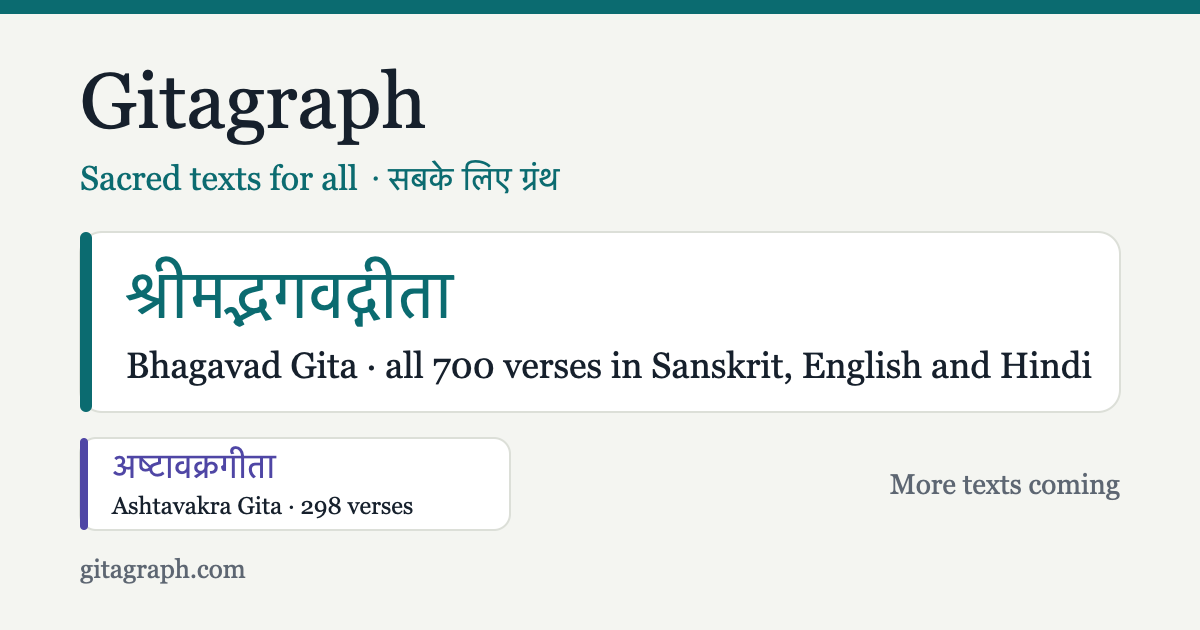
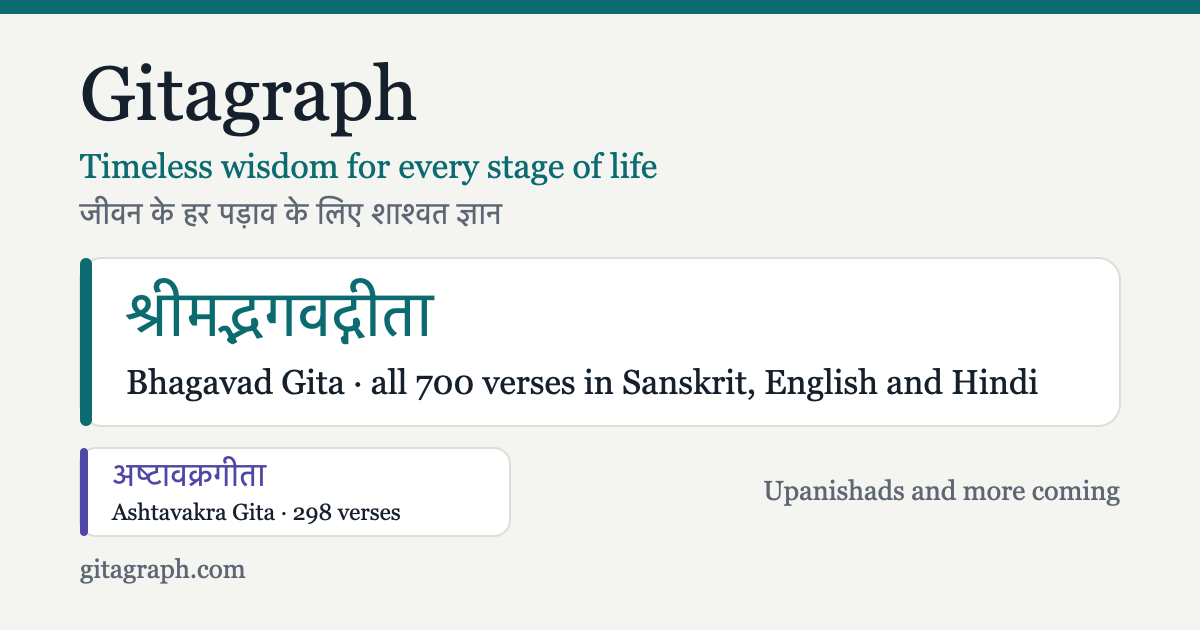
Library home: Timeless wisdom for every stage of life; Read / Explore / Reflect doors and a verse of the day
New tagline and second line (EN/HI) in the title, og tags and share card; three equal doors under the
tagline (Read continues where the reader left off); the Gita's verse of the day below them; the
life-questions chip row gives way to the Reflect door.

Changed region(s): [[0.0617, 0.0905, 0.925, 0.8746], [0.6475, 0.754, 0.9558, 0.8143]]

diff --git a/index.html b/index.html
@@ -3,17 +3,17 @@
 <head>
 <meta charset="utf-8">
 <meta name="viewport" content="width=device-width,initial-scale=1,viewport-fit=cover">
-<title>Gitagraph · Sacred texts for all · Bhagavad Gita, Ashtavakra Gita and more</title>
+<title>Gitagraph · Timeless wisdom for every stage of life</title>
 <meta name="description" content="India&#x27;s sacred texts, verse by verse, in Sanskrit with simple English and Hindi. Easy for someone opening them for the first time, and a reference for someone who has read them many times.">
 <link rel="canonical" href="https://gitagraph.com/">
 <meta name="theme-color" content="#f4f5f1" media="(prefers-color-scheme: light)">
 <meta name="theme-color" content="#0e1219" media="(prefers-color-scheme: dark)">
-<meta property="og:type" content="website"><meta property="og:title" content="Gitagraph · Sacred texts for all">
+<meta property="og:type" content="website"><meta property="og:title" content="Gitagraph · Timeless wisdom for every stage of life">
 <meta property="og:description" content="India&#x27;s sacred texts, verse by verse, in Sanskrit with simple English and Hindi. Easy for someone opening them for the first time, and a reference for someone who has read them many times."><meta property="og:url" content="https://gitagraph.com/">
-<meta property="og:site_name" content="Gitagraph · Sacred texts for all">
-<meta property="og:image" content="https://gitagraph.com/shared/og-library.png?v=20261111232852">
+<meta property="og:site_name" content="Gitagraph · Timeless wisdom for every stage of life">
+<meta property="og:image" content="https://gitagraph.com/shared/og-library.png?v=20261112000921">
 <meta property="og:image:width" content="1200"><meta property="og:image:height" content="630">
-<meta property="og:image:alt" content="Gitagraph · Sacred texts for all (गीताग्राफ़ · सबके लिए ग्रंथ): the Bhagavad Gita, with the Ashtavakra Gita and more, verse by verse in Sanskrit, English and Hindi">
+<meta property="og:image:alt" content="Gitagraph · Timeless wisdom for every stage of life (गीताग्राफ़ · जीवन के हर पड़ाव के लिए शाश्वत ज्ञान): the Bhagavad Gita, the Ashtavakra Gita and more, verse by verse in Sanskrit, English and Hindi">
 <meta property="og:locale" content="en_IN"><meta property="og:locale:alternate" content="hi_IN">
 <meta name="twitter:card" content="summary_large_image">
 <link rel="icon" href="gita/icon.svg" type="image/svg+xml">
@@ -54,6 +54,23 @@ a.text:hover{border-color:var(--c)}
 .text .go{color:var(--c);font-weight:600}
 .text.soon{opacity:.62}
 .grid .featured{grid-column:1 / -1}
+.hero .tag2{margin:0;color:var(--muted);font-size:17px}
+.doors{list-style:none;margin:22px 0 0;padding:0;display:grid;grid-template-columns:minmax(0,1fr);gap:12px}
+@media (min-width:700px){ .doors{grid-template-columns:repeat(3,minmax(0,1fr))} }
+.door{display:flex;flex-direction:column;gap:6px;height:100%;padding:18px 20px;border-radius:16px;background:var(--surface);border:1px solid var(--line);text-decoration:none;color:inherit}
+.door:hover{border-color:var(--accent)}
+.door svg{width:28px;height:28px;color:var(--accent)}
+.door .dt{font-family:var(--f-read);font-weight:600;font-size:21px}
+:root[lang=hi] .door .dt{font-family:var(--f-hi);font-weight:400;font-size:22px}
+.door .ds{color:var(--muted);line-height:1.5}
+.door .go{margin-top:auto;padding-top:6px;color:var(--accent);font-weight:600;font-size:15px}
+.votd{margin:22px 0 0;padding:20px 22px;border-radius:16px;background:var(--surface);border:1px solid var(--line)}
+.votd .ey{margin:0;font-size:12.5px;letter-spacing:.08em;text-transform:uppercase;color:var(--muted);font-weight:600}
+:root[lang=hi] .votd .ey{letter-spacing:0;text-transform:none;font-size:14px}
+.votd .sa{font-family:var(--f-skt);font-size:21px;line-height:1.75;margin:10px 0 0}
+.votd .tx{font-family:var(--f-read);font-size:17.5px;line-height:1.65;margin:10px 0 0;max-width:62ch}
+:root[lang=hi] .votd .tx{font-family:var(--f-hi);line-height:1.85}
+.votd a{display:inline-block;margin-top:12px;color:var(--accent);font-weight:600;text-decoration:none}
 .text.feat{padding:26px 26px 22px;border-top-width:7px;background:color-mix(in srgb, var(--c) 6%, var(--surface))}
 .text.feat .nat{font-size:clamp(34px,6vw,46px)}
 .text.feat .nm{font-size:clamp(22px,3.5vw,28px)}
@@ -86,14 +103,17 @@ a.text:hover{border-color:var(--c)}
 <header class="top"><span class="brand" id="brand">Gitagraph</span>
   <button class="langpill" id="lang" type="button" aria-label="हिन्दी में देखें">हि</button></header>
 <main class="wrap">
-  <section class="hero"><h1 id="h1">Gitagraph<span class="proto" id="beta">Beta</span></h1><p class="tag" id="tag">Sacred texts for all</p><p id="lede">India&#x27;s sacred texts, verse by verse, in Sanskrit with simple English and Hindi. Easy for someone opening them for the first time, and a reference for someone who has read them many times.</p></section>
+  <section class="hero"><h1 id="h1">Gitagraph<span class="proto" id="beta">Beta</span></h1>
+    <p class="tag"><span class="l-en">Timeless wisdom for every stage of life.</span><span class="l-hi">जीवन के हर पड़ाव के लिए शाश्वत ज्ञान।</span></p>
+    <p class="tag2"><span class="l-en">For curious minds — read, explore, reflect.</span><span class="l-hi">जिज्ञासु मन के लिए — पढ़ें, खोजें, मनन करें।</span></p></section>
+  <ul class="doors"><li><a class="door" id="door-read" href="gita/"><svg viewBox="0 0 24 24" fill="none" stroke="currentColor" stroke-width="1.8" stroke-linecap="round" stroke-linejoin="round" aria-hidden="true"><path d="M3 5.5c2.8-1 5.8-1 9 1v13c-3.2-2-6.2-2-9-1z"/><path d="M21 5.5c-2.8-1-5.8-1-9 1v13c3.2-2 6.2-2 9-1z"/></svg><span class="dt"><span class="l-en">Read</span><span class="l-hi">पढ़ें</span></span><span class="ds" id="door-read-ds"><span class="l-en">Start with the Gita</span><span class="l-hi">गीता से शुरू करें</span></span><span class="go"><span class="l-en">Open the Gita →</span><span class="l-hi">गीता खोलें →</span></span></a></li><li><a class="door" href="gita/explore/"><svg viewBox="0 0 24 24" fill="none" stroke="currentColor" stroke-width="1.8" stroke-linecap="round" aria-hidden="true"><circle cx="12" cy="12" r="2.6"/><circle cx="4.5" cy="6" r="1.8"/><circle cx="19.5" cy="5" r="1.8"/><circle cx="18.5" cy="18.5" r="1.8"/><circle cx="5" cy="18" r="1.8"/><path d="M6 7l4.2 3.4M17.9 6.2l-4 4M17.2 17.2l-3.4-3.4M6.5 16.8l3.6-3"/></svg><span class="dt"><span class="l-en">Explore</span><span class="l-hi">खोजें</span></span><span class="ds"><span class="l-en">Stories, people and ideas</span><span class="l-hi">कथाएँ, पात्र और विचार</span></span><span class="go"><span class="l-en">Open the map →</span><span class="l-hi">नक्शा खोलें →</span></span></a></li><li><a class="door" href="gita/questions/"><svg viewBox="0 0 24 24" fill="none" stroke="currentColor" stroke-width="1.8" stroke-linecap="round" stroke-linejoin="round" aria-hidden="true"><path d="M12 3c3 4 3 8 0 12-3-4-3-8 0-12z"/><path d="M4 11c3 0 6 2 8 4-3 1-6 0-8-4zM20 11c-3 0-6 2-8 4 3 1 6 0 8-4z"/><path d="M5 20h14"/></svg><span class="dt"><span class="l-en">Reflect</span><span class="l-hi">मनन करें</span></span><span class="ds"><span class="l-en">Wisdom for life’s questions</span><span class="l-hi">जीवन के प्रश्नों के लिए</span></span><span class="go"><span class="l-en">See the questions →</span><span class="l-hi">प्रश्न देखें →</span></span></a></li></ul>
+  <section class="votd" id="votd" hidden aria-live="polite"></section>
   <ul class="grid" id="grid"><li class="featured"><a class="text feat" href="gita/" style="--lc:#0b6b70;--ld:#4cc0c2"><span class="nat" lang="sa">श्रीमद्भगवद्गीता</span><span class="nm">Bhagavad Gita</span><span class="ds">Krishna&#x27;s teaching to Arjuna on the field of Kurukshetra, in 18 chapters.</span><span class="ft"><span>700 verses</span><span class="go">Start reading →</span></span></a></li><li class=""><a class="text" href="ashtavakra/" style="--lc:#4f46a5;--ld:#a9a2f2"><span class="nat" lang="sa">अष्टावक्रगीता</span><span class="nm">Ashtavakra Gita</span><span class="ds">The sage Ashtavakra and King Janaka on the Self, freedom and stillness, in 20 chapters.</span><span class="ft"><span>298 verses</span><span class="go">Read →</span></span></a></li><li><div class="text soon" style="--lc:#8a5a12;--ld:#e2b36a" aria-disabled="true"><span class="nat" lang="sa">उपनिषद्</span><span class="nm">Upanishads</span><span class="ds">The principal Upanishads, verse by verse.</span><span class="ft"><span></span><span class="pill">Coming soon</span></span></div></li></ul>
-  <section class="lifeq"><h2><span class="l-en">Life questions · from the Gita</span><span class="l-hi">जीवन के प्रश्न · गीता से</span></h2><p><span class="l-en">When you're facing one of these, start with what the Gita says about it.</span><span class="l-hi">जब आप इनमें से किसी स्थिति में हों, गीता के इन श्लोकों से शुरू करें।</span></p><div class="chips"><a class="chip" href="gita/questions/anxious/"><span class="l-en">Anxious or worried</span><span class="l-hi">चिंता या घबराहट</span></a><a class="chip" href="gita/questions/duty/"><span class="l-en">Unsure of my duty or what to do</span><span class="l-hi">कर्तव्य को लेकर उलझन</span></a><a class="chip" href="gita/questions/grief/"><span class="l-en">Grieving a loss</span><span class="l-hi">किसी के खोने का शोक</span></a><a class="chip" href="gita/questions/anger/"><span class="l-en">Angry or resentful</span><span class="l-hi">क्रोध या कड़वाहट</span></a><a class="chip" href="gita/questions/results/"><span class="l-en">Afraid of failure, attached to results</span><span class="l-hi">असफलता का डर, फल की चिंता</span></a><a class="chip" href="gita/questions/restless-mind/"><span class="l-en">Restless mind, can&#x27;t focus</span><span class="l-hi">चंचल मन, ध्यान न लगना</span></a><a class="chip" href="gita/questions/feeling-low/"><span class="l-en">Feeling low or without purpose</span><span class="l-hi">निराशा, उद्देश्य की कमी</span></a><a class="chip" href="gita/questions/who-am-i/"><span class="l-en">Who am I?</span><span class="l-hi">मैं कौन हूँ?</span></a></div></section>
   <p class="note" id="note">Every text is free, has no ads and works offline once opened. The Sanskrit comes from public-domain editions; the translations are new and written to be easy to read.</p>
   <p class="foot"><a href="how-its-made/"><span class="l-en">How this site is made →</span><span class="l-hi">यह साइट कैसे बनी →</span></a></p>
 </main>
 <script>
-const LIB = {"brand_en": "Gitagraph", "brand_hi": "गीताग्राफ़", "title_en": "Sacred texts for all", "title_hi": "सबके लिए ग्रंथ", "lede_en": "India's sacred texts, verse by verse, in Sanskrit with simple English and Hindi. Easy for someone opening them for the first time, and a reference for someone who has read them many times.", "lede_hi": "भारत के पवित्र ग्रंथ, श्लोक-दर-श्लोक, संस्कृत के साथ सरल हिंदी और अंग्रेज़ी में। पहली बार पढ़ने वालों के लिए आसान, और बार-बार पढ़ चुके लोगों के लिए संदर्भ।", "texts": [{"id": "gita", "path": "gita/", "name_en": "Bhagavad Gita", "name_hi": "भगवद्गीता", "native": "श्रीमद्भगवद्गीता", "desc_en": "Krishna's teaching to Arjuna on the field of Kurukshetra, in 18 chapters.", "desc_hi": "कुरुक्षेत्र में श्रीकृष्ण का अर्जुन को उपदेश, 18 अध्यायों में।", "verses": 700, "status": "live", "accent": "#0b6b70", "accent_dark": "#4cc0c2", "featured": true}, {"id": "ashtavakra", "path": "ashtavakra/", "name_en": "Ashtavakra Gita", "name_hi": "अष्टावक्र गीता", "native": "अष्टावक्रगीता", "desc_en": "The sage Ashtavakra and King Janaka on the Self, freedom and stillness, in 20 chapters.", "desc_hi": "ऋषि अष्टावक्र और राजा जनक का आत्मा, मुक्ति और शांति पर संवाद, 20 अध्यायों में।", "verses": 298, "status": "live", "accent": "#4f46a5", "accent_dark": "#a9a2f2"}, {"id": "upanishads", "path": "upanishads/", "name_en": "Upanishads", "name_hi": "उपनिषद्", "native": "उपनिषद्", "desc_en": "The principal Upanishads, verse by verse.", "desc_hi": "प्रमुख उपनिषद्, श्लोक-दर-श्लोक।", "verses": null, "status": "coming-soon", "accent": "#8a5a12", "accent_dark": "#e2b36a"}]};
+const LIB = {"brand_en": "Gitagraph", "brand_hi": "गीताग्राफ़", "title_en": "Timeless wisdom for every stage of life", "title_hi": "जीवन के हर पड़ाव के लिए शाश्वत ज्ञान", "tag2_en": "For curious minds — read, explore, reflect.", "tag2_hi": "जिज्ञासु मन के लिए — पढ़ें, खोजें, मनन करें।", "lede_en": "India's sacred texts, verse by verse, in Sanskrit with simple English and Hindi. Easy for someone opening them for the first time, and a reference for someone who has read them many times.", "lede_hi": "भारत के पवित्र ग्रंथ, श्लोक-दर-श्लोक, संस्कृत के साथ सरल हिंदी और अंग्रेज़ी में। पहली बार पढ़ने वालों के लिए आसान, और बार-बार पढ़ चुके लोगों के लिए संदर्भ।", "texts": [{"id": "gita", "path": "gita/", "name_en": "Bhagavad Gita", "name_hi": "भगवद्गीता", "native": "श्रीमद्भगवद्गीता", "desc_en": "Krishna's teaching to Arjuna on the field of Kurukshetra, in 18 chapters.", "desc_hi": "कुरुक्षेत्र में श्रीकृष्ण का अर्जुन को उपदेश, 18 अध्यायों में।", "verses": 700, "status": "live", "accent": "#0b6b70", "accent_dark": "#4cc0c2", "featured": true}, {"id": "ashtavakra", "path": "ashtavakra/", "name_en": "Ashtavakra Gita", "name_hi": "अष्टावक्र गीता", "native": "अष्टावक्रगीता", "desc_en": "The sage Ashtavakra and King Janaka on the Self, freedom and stillness, in 20 chapters.", "desc_hi": "ऋषि अष्टावक्र और राजा जनक का आत्मा, मुक्ति और शांति पर संवाद, 20 अध्यायों में।", "verses": 298, "status": "live", "accent": "#4f46a5", "accent_dark": "#a9a2f2"}, {"id": "upanishads", "path": "upanishads/", "name_en": "Upanishads", "name_hi": "उपनिषद्", "native": "उपनिषद्", "desc_en": "The principal Upanishads, verse by verse.", "desc_hi": "प्रमुख उपनिषद्, श्लोक-दर-श्लोक।", "verses": null, "status": "coming-soon", "accent": "#8a5a12", "accent_dark": "#e2b36a"}]};
 const UI = {"en": {"verses": "{n} verses", "soon": "Coming soon", "open": "Read →", "start": "Start reading →", "toggle": "हि", "beta": "Beta", "brand": "Gitagraph", "note": "Every text is free, has no ads and works offline once opened. The Sanskrit comes from public-domain editions; the translations are new and written to be easy to read."}, "hi": {"verses": "{n} श्लोक", "soon": "जल्द आ रहा है", "open": "पढ़ें →", "start": "पढ़ना शुरू करें →", "toggle": "EN", "beta": "बीटा", "brand": "गीताग्राफ़", "note": "हर ग्रंथ मुफ़्त है, बिना विज्ञापन, और एक बार खुलने के बाद ऑफ़लाइन भी चलता है। संस्कृत पाठ सार्वजनिक डोमेन संस्करणों से है; अनुवाद नए हैं और सरल भाषा में लिखे गए हैं।"}};
 const esc = s => String(s ?? "").replace(/[&<>"]/g, c => ({"&":"&amp;","<":"&lt;",">":"&gt;",'"':"&quot;"}[c]));
 function card(t, l){
@@ -110,16 +130,51 @@ function setLang(l){
   try{ localStorage.setItem("library-lang", l); }catch(e){}
   const u = UI[l];
   document.getElementById("h1").firstChild.textContent = l==="hi" ? LIB.brand_hi : LIB.brand_en;
-  document.getElementById("tag").textContent = l==="hi" ? LIB.title_hi : LIB.title_en;
   document.getElementById("beta").textContent = u.beta;
-  document.getElementById("lede").textContent = l==="hi" ? LIB.lede_hi : LIB.lede_en;
   document.getElementById("note").textContent = u.note;
   document.getElementById("brand").textContent = u.brand;
   document.getElementById("grid").innerHTML = ORDERED.map(t => card(t, l)).join("");
   const b = document.getElementById("lang"); b.textContent = u.toggle; b.setAttribute("aria-label", l==="hi" ? "Switch to English" : "हिन्दी में देखें");
-  document.title = l==="hi" ? `${LIB.brand_hi} · ${LIB.title_hi} · भगवद्गीता, अष्टावक्र गीता और अधिक` : `${LIB.brand_en} · ${LIB.title_en} · Bhagavad Gita, Ashtavakra Gita and more`;
+  document.title = l==="hi" ? `${LIB.brand_hi} · ${LIB.title_hi}` : `${LIB.brand_en} · ${LIB.title_en}`;
+  drawVotd();
 }
 document.getElementById("lang").onclick = () => setLang(document.documentElement.lang==="hi" ? "en" : "hi");
+// Read door: continue where the reader left off in the Gita (the Gita app keeps "gita-recent")
+try{
+  const last = JSON.parse(localStorage.getItem("gita-recent") || "[]")[0];
+  if(last){ const [c,v] = last.split(".");
+    document.getElementById("door-read").href = `gita/chapter/${c}/verse/${v}/`;
+    document.getElementById("door-read-ds").innerHTML = `<span class="l-en">Continue · ${esc(last)}</span><span class="l-hi">जारी रखें · ${esc(last)}</span>`; }
+}catch(e){}
+// Verse of the day: the same verse and the same rule as the Gita site's own (IST date; skips chapter 1,
+// narration and verses naming three or more people), loaded after the page so the home stays light.
+let VD = null;
+function saBody(sa){
+  const ls = sa.split("\n").map(x => x.trim()).filter(Boolean);
+  if(ls.length > 1 && /(उवाच|ुवाच)\s*[|।]?\s*$/.test(ls[0])) ls.shift();
+  return ls.map(x => x.replace(/\s*\|\|\s*([०-९]+)-([०-९]+)\s*\|\|/, "\u00a0॥\u00a0$1.$2\u00a0॥").replace(/\|\|/g,"॥").replace(/\|/g,"।"));
+}
+function drawVotd(){
+  const box = document.getElementById("votd"); if(!VD){ box.hidden = true; return; }
+  const hi = document.documentElement.lang === "hi", v = VD, ref = `${v.c}.${v.v}`;
+  box.innerHTML = `<p class="ey">${hi ? "आज का श्लोक · भगवद्गीता" : "Verse of the day · Bhagavad Gita"} ${ref}</p>
+    <p class="sa" lang="sa">${saBody(v.sa).map(esc).join("<br>")}</p><p class="tx">${esc(hi ? v.hi : v.en)}</p>
+    <a href="gita/chapter/${v.c}/verse/${v.v}/">${hi ? "संदर्भ में पढ़ें →" : "Read in context →"}</a>`;
+  box.hidden = false;
+}
+Promise.all([fetch("gita/verses.json").then(r => r.json()), fetch("gita/hubs.json").then(r => r.json())]).then(([V, H]) => {
+  const HB = new Map(H.map(h => [h.id, h]));
+  const voice = v => v.vo || v.sp;
+  const pool = V.filter(v => {
+    if(v.c === 1 || ["sanjaya","dhrit","duryo"].includes(voice(v))) return false;
+    const tags = [...new Set([voice(v), ...(v.vo ? [v.sp] : []), ...v.p, ...v.k].filter(id => HB.has(id)))];
+    return tags.filter(id => HB.get(id).type === "person").length < 3;
+  });
+  const gcd = (a,b) => b ? gcd(b, a % b) : a;
+  const step = [97,101,103,107,109].find(k => gcd(k, pool.length) === 1);
+  const day = Math.floor((Date.now() + 5.5*3600e3) / 864e5);
+  VD = pool[(day * step) % pool.length]; drawVotd();
+}).catch(() => {});
 let saved = "en"; try{ saved = localStorage.getItem("library-lang") || "en"; }catch(e){}
 if(saved==="hi") setLang("hi");
 </script>

diff --git a/how-its-made/index.html b/how-its-made/index.html
@@ -4,7 +4,7 @@
 <link rel="canonical" href="https://gitagraph.com/how-its-made/"><link rel="icon" href="../gita/icon.svg" type="image/svg+xml">
 <meta property="og:type" content="article"><meta property="og:title" content="How this site is made · Gitagraph">
 <meta property="og:description" content="What is ancient text, what is ours, and what is AI-assisted, so you can judge for yourself what you are reading."><meta property="og:url" content="https://gitagraph.com/how-its-made/">
-<meta property="og:image" content="https://gitagraph.com/shared/og-library.png?v=20261111232852"><meta name="twitter:card" content="summary_large_image">
+<meta property="og:image" content="https://gitagraph.com/shared/og-library.png?v=20261112000921"><meta name="twitter:card" content="summary_large_image">
 <link rel="preconnect" href="https://fonts.googleapis.com"><link rel="preconnect" href="https://fonts.gstatic.com" crossorigin><link rel="stylesheet" href="https://fonts.googleapis.com/css2?family=Literata:opsz,wght@7..72,400;7..72,600&family=Mukta:wght@400;500;600;700&family=Tiro+Devanagari+Sanskrit&family=Tiro+Devanagari+Hindi&display=swap"><style>
 :root{--bg:#f4f5f1;--surface:#fff;--sunk:#eceee8;--ink:#16202c;--muted:#5d6672;--line:#dcdfd8;--accent:#0b6b70;
   --f-read:"Literata",Georgia,serif;--f-ui:"Mukta",system-ui,-apple-system,"Segoe UI",sans-serif;--f-skt:"Tiro Devanagari Sanskrit","Noto Serif Devanagari",serif;--f-hi:"Tiro Devanagari Hindi","Noto Serif Devanagari",serif;
@@ -41,6 +41,23 @@ a.text:hover{border-color:var(--c)}
 .text .go{color:var(--c);font-weight:600}
 .text.soon{opacity:.62}
 .grid .featured{grid-column:1 / -1}
+.hero .tag2{margin:0;color:var(--muted);font-size:17px}
+.doors{list-style:none;margin:22px 0 0;padding:0;display:grid;grid-template-columns:minmax(0,1fr);gap:12px}
+@media (min-width:700px){ .doors{grid-template-columns:repeat(3,minmax(0,1fr))} }
+.door{display:flex;flex-direction:column;gap:6px;height:100%;padding:18px 20px;border-radius:16px;background:var(--surface);border:1px solid var(--line);text-decoration:none;color:inherit}
+.door:hover{border-color:var(--accent)}
+.door svg{width:28px;height:28px;color:var(--accent)}
+.door .dt{font-family:var(--f-read);font-weight:600;font-size:21px}
+:root[lang=hi] .door .dt{font-family:var(--f-hi);font-weight:400;font-size:22px}
+.door .ds{color:var(--muted);line-height:1.5}
+.door .go{margin-top:auto;padding-top:6px;color:var(--accent);font-weight:600;font-size:15px}
+.votd{margin:22px 0 0;padding:20px 22px;border-radius:16px;background:var(--surface);border:1px solid var(--line)}
+.votd .ey{margin:0;font-size:12.5px;letter-spacing:.08em;text-transform:uppercase;color:var(--muted);font-weight:600}
+:root[lang=hi] .votd .ey{letter-spacing:0;text-transform:none;font-size:14px}
+.votd .sa{font-family:var(--f-skt);font-size:21px;line-height:1.75;margin:10px 0 0}
+.votd .tx{font-family:var(--f-read);font-size:17.5px;line-height:1.65;margin:10px 0 0;max-width:62ch}
+:root[lang=hi] .votd .tx{font-family:var(--f-hi);line-height:1.85}
+.votd a{display:inline-block;margin-top:12px;color:var(--accent);font-weight:600;text-decoration:none}
 .text.feat{padding:26px 26px 22px;border-top-width:7px;background:color-mix(in srgb, var(--c) 6%, var(--surface))}
 .text.feat .nat{font-size:clamp(34px,6vw,46px)}
 .text.feat .nm{font-size:clamp(22px,3.5vw,28px)}

diff --git a/404.html b/404.html
@@ -36,6 +36,23 @@ a.text:hover{border-color:var(--c)}
 .text .go{color:var(--c);font-weight:600}
 .text.soon{opacity:.62}
 .grid .featured{grid-column:1 / -1}
+.hero .tag2{margin:0;color:var(--muted);font-size:17px}
+.doors{list-style:none;margin:22px 0 0;padding:0;display:grid;grid-template-columns:minmax(0,1fr);gap:12px}
+@media (min-width:700px){ .doors{grid-template-columns:repeat(3,minmax(0,1fr))} }
+.door{display:flex;flex-direction:column;gap:6px;height:100%;padding:18px 20px;border-radius:16px;background:var(--surface);border:1px solid var(--line);text-decoration:none;color:inherit}
+.door:hover{border-color:var(--accent)}
+.door svg{width:28px;height:28px;color:var(--accent)}
+.door .dt{font-family:var(--f-read);font-weight:600;font-size:21px}
+:root[lang=hi] .door .dt{font-family:var(--f-hi);font-weight:400;font-size:22px}
+.door .ds{color:var(--muted);line-height:1.5}
+.door .go{margin-top:auto;padding-top:6px;color:var(--accent);font-weight:600;font-size:15px}
+.votd{margin:22px 0 0;padding:20px 22px;border-radius:16px;background:var(--surface);border:1px solid var(--line)}
+.votd .ey{margin:0;font-size:12.5px;letter-spacing:.08em;text-transform:uppercase;color:var(--muted);font-weight:600}
+:root[lang=hi] .votd .ey{letter-spacing:0;text-transform:none;font-size:14px}
+.votd .sa{font-family:var(--f-skt);font-size:21px;line-height:1.75;margin:10px 0 0}
+.votd .tx{font-family:var(--f-read);font-size:17.5px;line-height:1.65;margin:10px 0 0;max-width:62ch}
+:root[lang=hi] .votd .tx{font-family:var(--f-hi);line-height:1.85}
+.votd a{display:inline-block;margin-top:12px;color:var(--accent);font-weight:600;text-decoration:none}
 .text.feat{padding:26px 26px 22px;border-top-width:7px;background:color-mix(in srgb, var(--c) 6%, var(--surface))}
 .text.feat .nat{font-size:clamp(34px,6vw,46px)}
 .text.feat .nm{font-size:clamp(22px,3.5vw,28px)}
